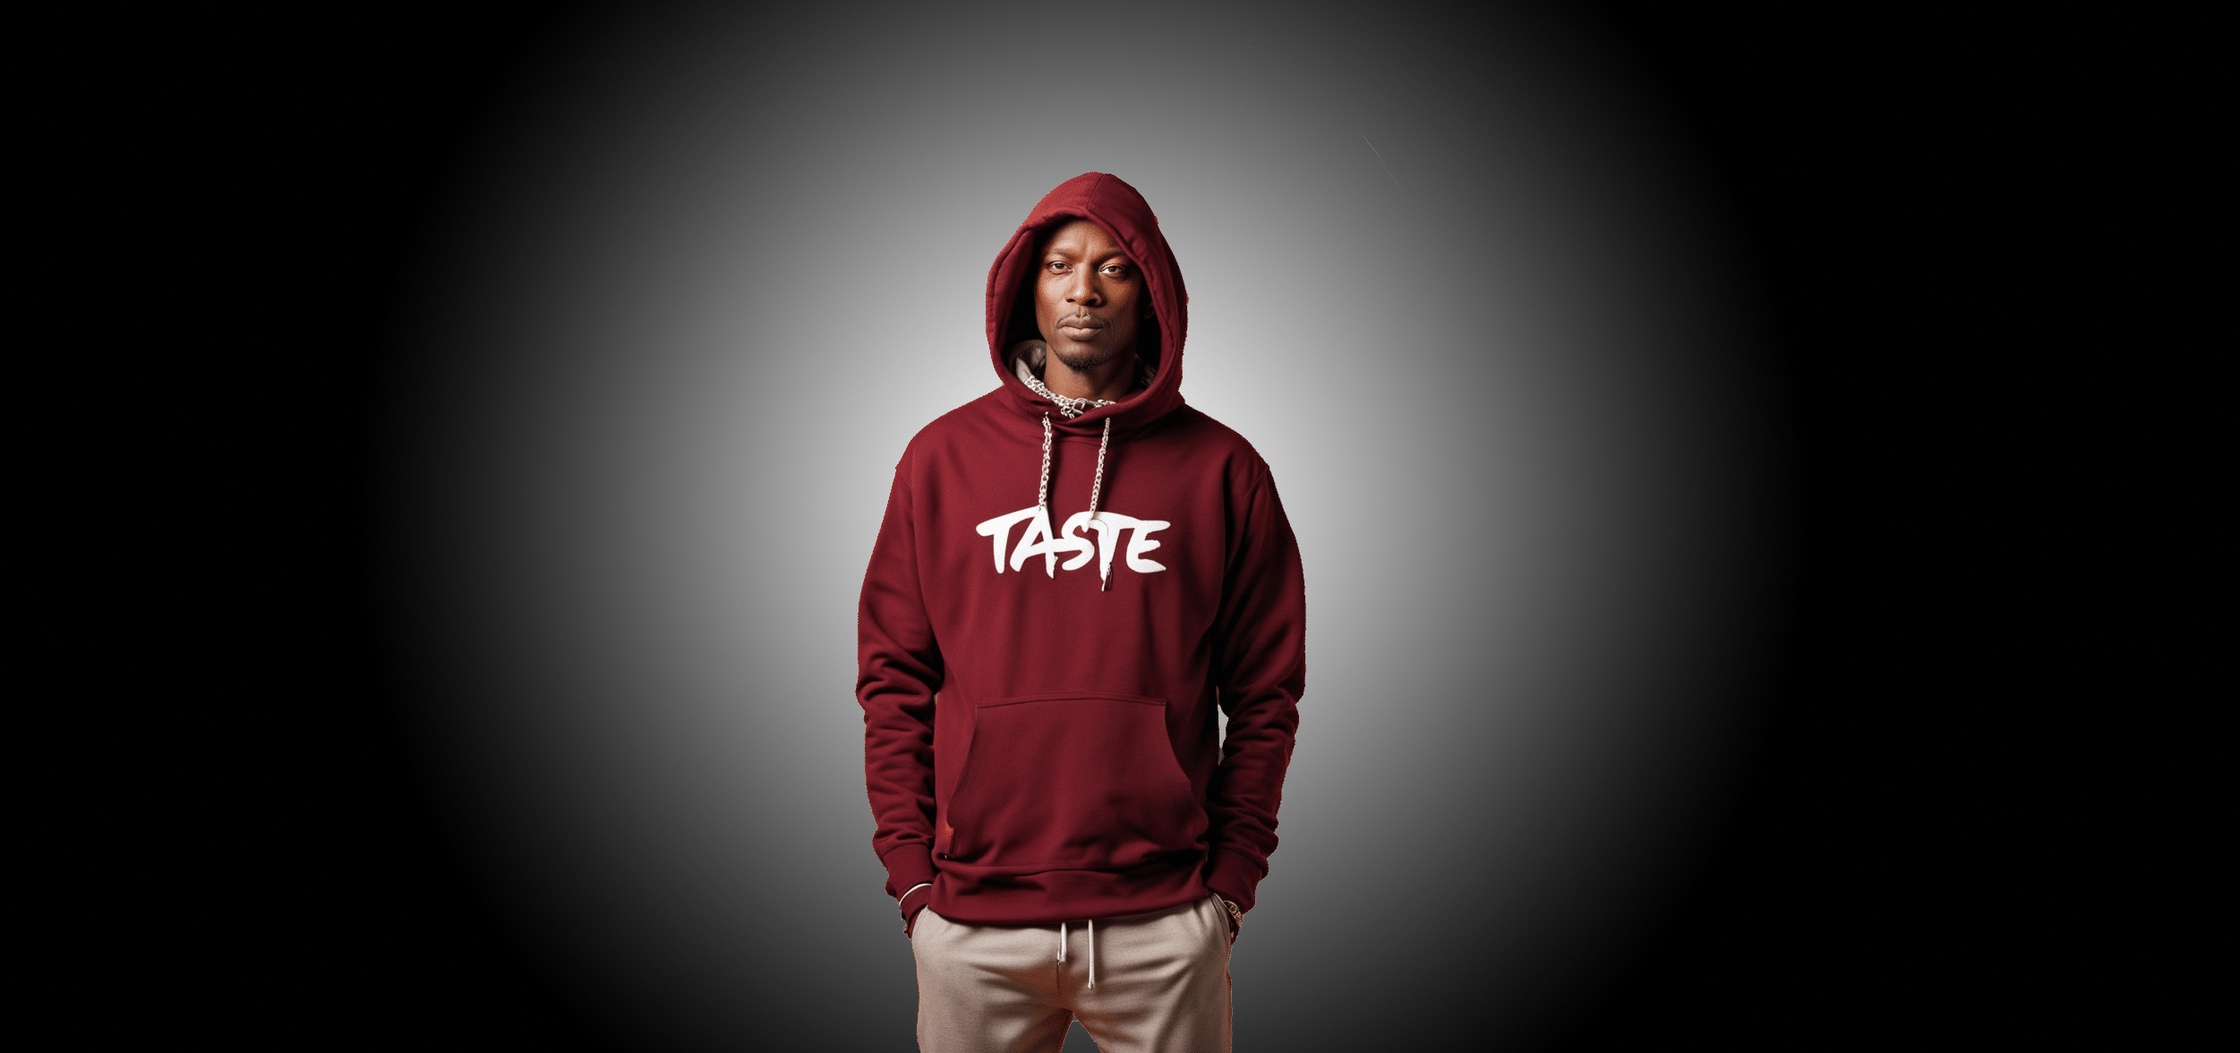
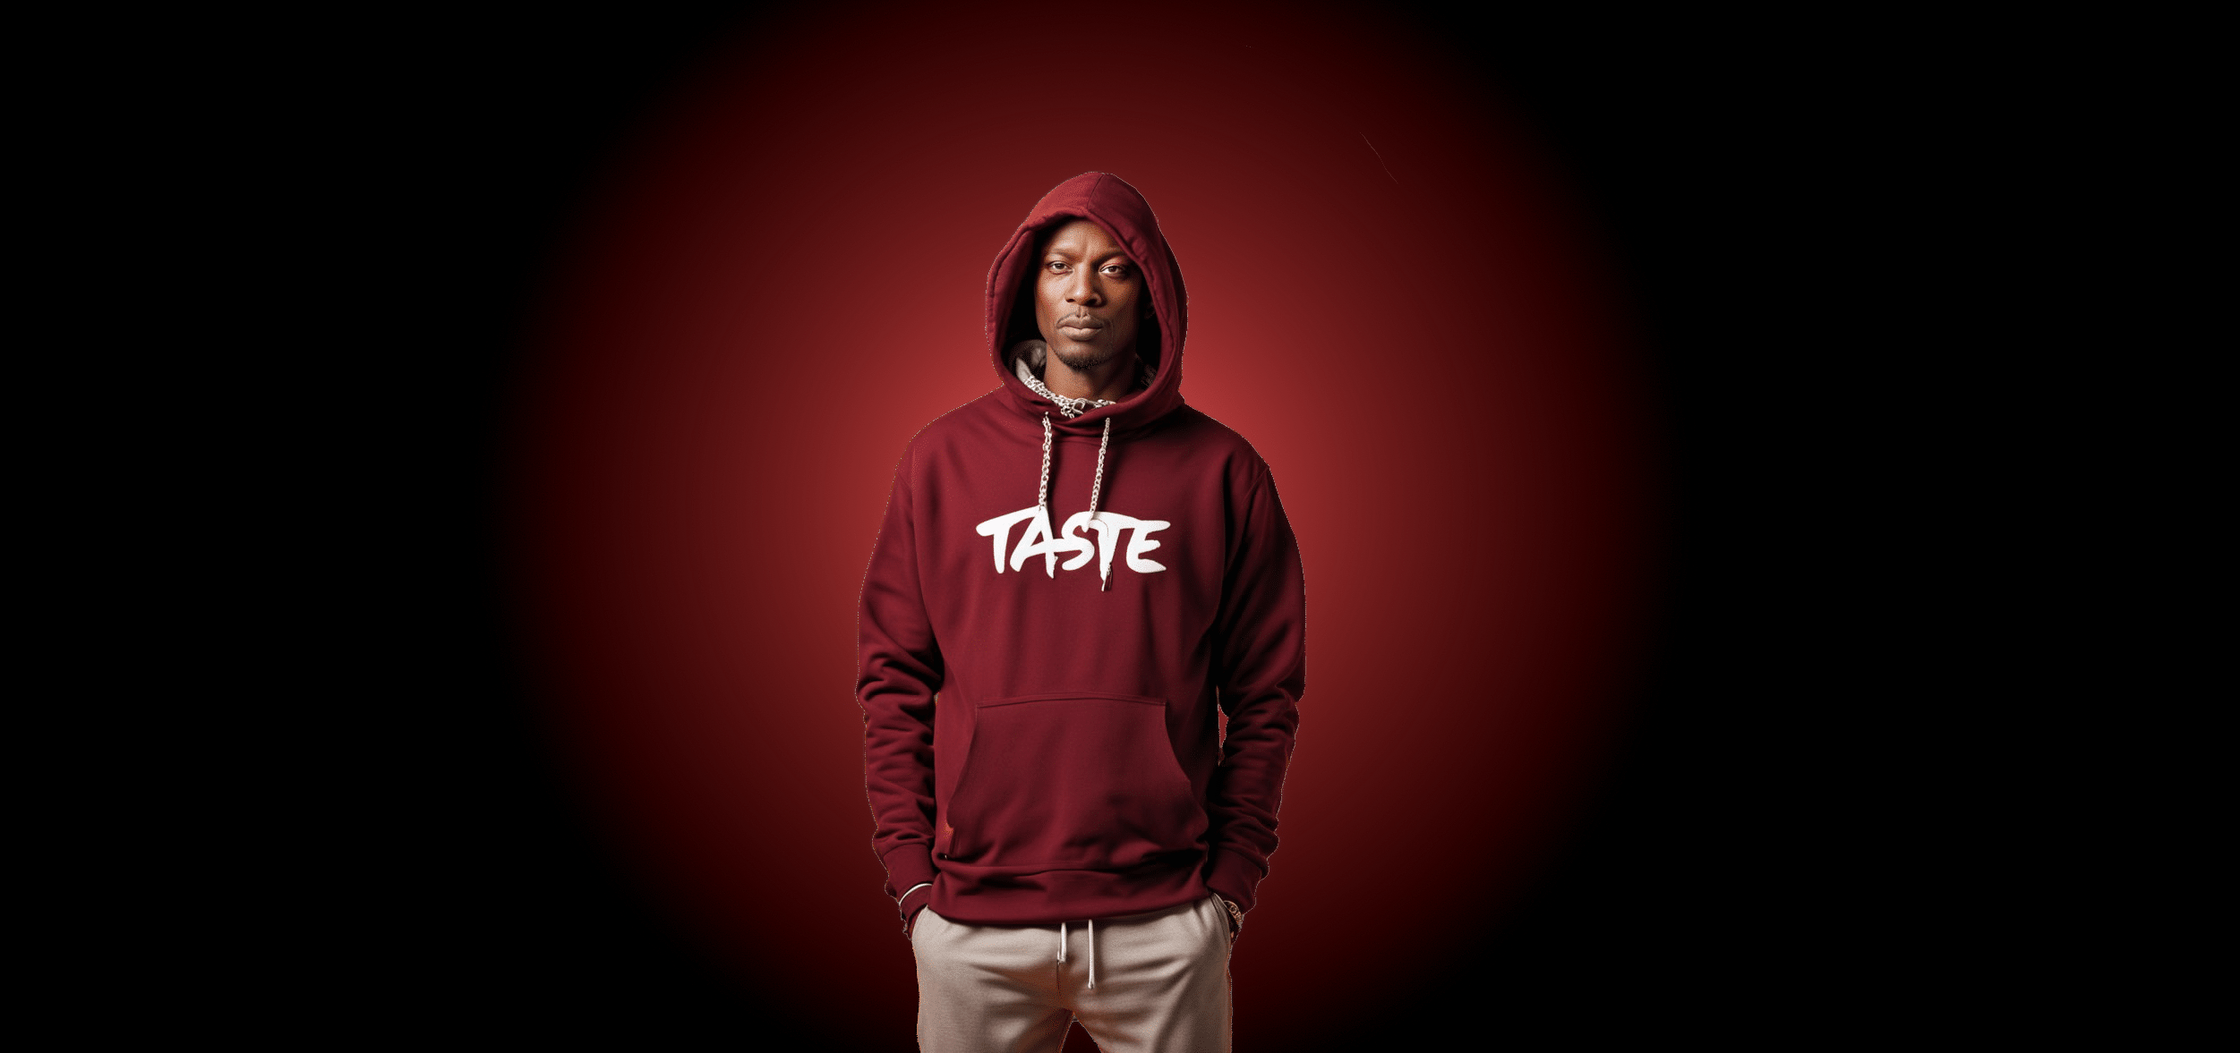
update visual

diff --git a/src/views/HomeView.vue b/src/views/HomeView.vue
@@ -1,8 +1,8 @@
 <template>
   <main>
-    <section class="section_1 mb-[87px]">
-      <div class="flex flex-col gap-[20px] overflow-hidden bg-black pt-[20px]">
-        <div class="flex flex-col md:flex-row justify-between gap-[20px] overflow-hidden">
+    <section class="section_1 pb-[87px] bg-black relative">
+      <div class="flex flex-col gap-[20px] overflow-hidden py-[20px]">
+        <div class="flex flex-col md:flex-row justify-between gap-[20px] overflow-hidden z-10">
           <Collection
             @openForm="openForm(4)"
             :left="true"
@@ -29,14 +29,14 @@
           </div>
         </div>
       </div>
-      <div class="w-screen">
-        <video autoplay loop muted ref="videoRef">
-          <source src="@/images/blackhole.mp4" type="video/mp4" />
-          black hole in spase
-        </video>
-      </div>
+      <video autoplay loop muted ref="videoRef" class="sticky top-[15px] bottom-[15px] -z-0">
+        <source src="@/images/blackhole.mp4" type="video/mp4" />
+        black hole in spase
+      </video>
 
-      <div class="flex flex-col md:flex-row justify-between gap-[20px] bg-black overflow-hidden">
+      <div
+        class="flex flex-col md:flex-row justify-between gap-[20px] overflow-hidden py-[20px] z-10"
+      >
         <Collection
           @openForm="openForm(6)"
           :left="true"
@@ -63,101 +63,105 @@
         </div>
       </div>
     </section>
-    <section
-      class="section_2 mx-auto mb-[150px] flex flex-col-reverse md:flex-row lg:flex-col lg:gap-[120px] xl:max-w-[1196px] justify-center"
-    >
-      <div
-        class="order-2 lg:order-1 flex flex-col md:flex-col-reverse lg:flex-row items-center lg:items-start justify-between"
+
+    <div class="flex justify-center w-full bg-wight relative z-10">
+      <section
+        class="section_2 mb-[150px] flex flex-col-reverse md:flex-row lg:flex-col lg:gap-[120px] xl:max-w-[1196px] justify-center bg-wight"
       >
-        <div class="w-full flex relative items-start md:items-center overflow-hidden">
-          <img
-            class="absolute block md:hidden top-[40%] left-[50%] max-w-[245px]"
-            style="box-shadow: 13px 14px 27px 0px rgba(0, 0, 0, 0.5)"
-            src="@/images/photo_2023-10.jpeg"
-            alt=""
-          />
-          <div class="max-w-[245px] lg:max-w-[312px] xl:max-w-[477px]">
-            <CardInfo :color="'7e5bef'">
+        <div
+          class="order-2 lg:order-1 flex flex-col md:flex-col-reverse lg:flex-row items-center lg:items-start justify-between"
+        >
+          <div class="w-full flex relative items-start md:items-center overflow-hidden">
+            <img
+              class="absolute block md:hidden top-[40%] left-[50%] max-w-[245px]"
+              style="box-shadow: 13px 14px 27px 0px rgba(0, 0, 0, 0.5)"
+              src="@/images/photo_2023-10.jpeg"
+              alt=""
+            />
+            <div class="max-w-[245px] lg:max-w-[312px] xl:max-w-[477px]">
+              <CardInfo :color="'7e5bef'">
+                <div
+                  class="main_text flex flex-col gap-[20px] p-[10px] lg:p-[25px] pt-[23px] lg:pt-[44px]"
+                >
+                  <p
+                    class="md:mb-[50px] lg:mb-[100px] md:text-[24px] lg:text-[32px] xl:text-[40px] font-bold"
+                  >
+                    ABOUT <br />
+                    US
+                  </p>
+                  <p class="text-center md:text-[20px] xl:text-[32px] font-semibold uppercase">
+                    taste&color
+                  </p>
+                  <p class="text-justify md:text-[15px] lg:text-[16px] xl:text-[20px] font-light">
+                    Бренд в котором каждый надет что-то для себя. Это не просто бренд одежды, это
+                    источник вдохновения и возможность выразить свой индивидуальный стиль в самых
+                    лучших аспектах моды и элегантности.
+                  </p>
+                </div>
+              </CardInfo>
+            </div>
+          </div>
+          <div class="md:max-w-[325px] lg:max-w-[414px] xl:max-w-[533px]">
+            <CardInfo :color="'B14F4F'">
               <div
                 class="main_text flex flex-col gap-[20px] p-[10px] lg:p-[25px] pt-[23px] lg:pt-[44px]"
               >
-                <p
-                  class="md:mb-[50px] lg:mb-[100px] md:text-[24px] lg:text-[32px] xl:text-[40px] font-bold"
-                >
-                  ABOUT <br />
-                  US
-                </p>
-                <p class="text-center md:text-[20px] xl:text-[32px] font-semibold uppercase">
-                  taste&color
+                <p class="text-start md:text-[20px] lg:text-[24px] xl:text-[32px] font-semibold">
+                  Требования для покупателей "taste&color":
                 </p>
                 <p class="text-justify md:text-[15px] lg:text-[16px] xl:text-[20px] font-light">
-                  Бренд в котором каждый надет что-то для себя. Это не просто бренд одежды, это
-                  источник вдохновения и возможность выразить свой индивидуальный стиль в самых
-                  лучших аспектах моды и элегантности.
+                  Обязанность №1 - Носить с удовольствием: В противном случае, разве это не
+                  занавеска в гостиной? <br />
+                  Не забыть почувствовать себя королевой/королем: Ведь кто еще, как не ты,
+                  заслуживает этого? <br />
+                  Избегать скучных моментов: Одежда "taste&color" предназначена для того, чтобы
+                  каждый день был мини-модным показом. <br />
+                  Сиять яркими красками даже в серых буднях: Главное - не поглотить офисный
+                  дресс-код своим шикарным стилем. <br />
+                  Превратить обычный день в феерию стиля: Помните, мир - это Ваш подиум, дорогие
+                  покупатели! <br />
+                  Не останавливаться на достигнутом: Ведь у нас каждая новая коллекция - как новая
+                  страница в истории твоего стиля!
                 </p>
               </div>
             </CardInfo>
           </div>
         </div>
-        <div class="md:max-w-[325px] lg:max-w-[414px] xl:max-w-[533px]">
-          <CardInfo :color="'B14F4F'">
-            <div
-              class="main_text flex flex-col gap-[20px] p-[10px] lg:p-[25px] pt-[23px] lg:pt-[44px]"
-            >
-              <p class="text-start md:text-[20px] lg:text-[24px] xl:text-[32px] font-semibold">
-                Требования для покупателей "taste&color":
-              </p>
-              <p class="text-justify md:text-[15px] lg:text-[16px] xl:text-[20px] font-light">
-                Обязанность №1 - Носить с удовольствием: В противном случае, разве это не занавеска
-                в гостиной? <br />
-                Не забыть почувствовать себя королевой/королем: Ведь кто еще, как не ты, заслуживает
-                этого? <br />
-                Избегать скучных моментов: Одежда "taste&color" предназначена для того, чтобы каждый
-                день был мини-модным показом. <br />
-                Сиять яркими красками даже в серых буднях: Главное - не поглотить офисный дресс-код
-                своим шикарным стилем. <br />
-                Превратить обычный день в феерию стиля: Помните, мир - это Ваш подиум, дорогие
-                покупатели! <br />
-                Не останавливаться на достигнутом: Ведь у нас каждая новая коллекция - как новая
-                страница в истории твоего стиля!
-              </p>
-            </div>
-          </CardInfo>
+        <div
+          class="order-1 lg:order-2 relative flex lg:w-full justify-end md:items-end lg:items-start lg:pr-[120px]"
+        >
+          <img
+            class="absolute hidden md:block md:top-0 md:left-0 md:max-w-[333px] lg:left-[5%] lg:-top-[40%] lg:max-w-[425px] xl:-left-[5%] xl:max-w-[609px]"
+            style="box-shadow: 13px 14px 27px 0px rgba(0, 0, 0, 0.5)"
+            src="@/images/photo_2023-10.jpeg"
+            alt=""
+          />
+          <div class="md:max-w-[327px] lg:max-w-[414px] xl:max-w-[545px]">
+            <CardInfo :color="'F3A352'">
+              <div
+                class="main_text flex flex-col gap-[20px] p-[10px] lg:p-[25px] pt-[23px] lg:pt-[44px]"
+              >
+                <p class="text-start md:text-[20px] lg:text-[24px] xl:text-[32px] font-semibold">
+                  Обязанности бренда одежды taste&color перед вами:
+                </p>
+                <p class="text-justify md:text-[15px] lg:text-[16px] xl:text-[20px] font-light">
+                  Поставлять высокое качество: "taste&color" обязан предоставлять потребителям
+                  одежду высочайшего качества, соответствующую премиальным стандартам. <br />
+                  Следить за последними тенденциями: Бренд должен быть в курсе последних модных
+                  течений, чтобы предлагать потребителям современные и стильные коллекции.
+                  <br />
+                  Обеспечивать комфорт: Каждая модель должна обеспечивать комфорт носки, чтобы
+                  потребители чувствовали себя уверенно в любой ситуации. <br />
+                  Поддерживать экологические стандарты: "taste&color" должен быть ответственным
+                  брендом, следящим за воздействием своей деятельности на окружающую среду.
+                </p>
+              </div>
+            </CardInfo>
+          </div>
         </div>
-      </div>
-      <div
-        class="order-1 lg:order-2 relative flex lg:w-full justify-end md:items-end lg:items-start lg:pr-[120px]"
-      >
-        <img
-          class="absolute hidden md:block md:top-0 md:left-0 md:max-w-[333px] lg:left-[5%] lg:-top-[40%] lg:max-w-[425px] xl:-left-[5%] xl:max-w-[609px]"
-          style="box-shadow: 13px 14px 27px 0px rgba(0, 0, 0, 0.5)"
-          src="@/images/photo_2023-10.jpeg"
-          alt=""
-        />
-        <div class="md:max-w-[327px] lg:max-w-[414px] xl:max-w-[545px]">
-          <CardInfo :color="'F3A352'">
-            <div
-              class="main_text flex flex-col gap-[20px] p-[10px] lg:p-[25px] pt-[23px] lg:pt-[44px]"
-            >
-              <p class="text-start md:text-[20px] lg:text-[24px] xl:text-[32px] font-semibold">
-                Обязанности бренда одежды taste&color перед вами:
-              </p>
-              <p class="text-justify md:text-[15px] lg:text-[16px] xl:text-[20px] font-light">
-                Поставлять высокое качество: "taste&color" обязан предоставлять потребителям одежду
-                высочайшего качества, соответствующую премиальным стандартам. <br />
-                Следить за последними тенденциями: Бренд должен быть в курсе последних модных
-                течений, чтобы предлагать потребителям современные и стильные коллекции.
-                <br />
-                Обеспечивать комфорт: Каждая модель должна обеспечивать комфорт носки, чтобы
-                потребители чувствовали себя уверенно в любой ситуации. <br />
-                Поддерживать экологические стандарты: "taste&color" должен быть ответственным
-                брендом, следящим за воздействием своей деятельности на окружающую среду.
-              </p>
-            </div>
-          </CardInfo>
-        </div>
-      </div>
-    </section>
+      </section>
+    </div>
+
     <section
       class="section_3 relative mx-auto lg:max-w-[840px] z-10 sm:px-[5px] md:max-w-[608px] md:px-[20px] xl:max-w-[1236px]"
     >
@@ -316,19 +320,13 @@
                     {{ cros.height }}
                   </p>
                 </div>
-                <div class="flex h-full w-full items-end justify-end">
-                  <p
-                    class="transitionSetting buyNow rounded-[10px] md:rounded-[15px] text-[14px] md:text-[20px] m-[10px] p-[4px] group-hover/cross:bg-black group-hover/cross:text-wight"
-                  >
-                    buy now
-                  </p>
-                </div>
               </div>
             </div>
           </template>
         </div>
       </div>
     </section>
+
     <section class="section_4 xl:pb-[300px]">
       <div
         class="relative"
@@ -890,23 +888,23 @@ export default defineComponent({
 
     hoverRotate(rotate: Boolean) {
       rotate = !rotate
-    },
-
-    video(el: any) {
-      var scrollHeight = Math.max(
-        document.body.scrollHeight,
-        document.documentElement.scrollHeight,
-        document.body.offsetHeight,
-        document.documentElement.offsetHeight,
-        document.body.clientHeight,
-        document.documentElement.clientHeight
-      )
-      let vid: any
-      vid = this.$refs.videoRef
-      let pers = scrollY / (scrollHeight / 1.5 / 100)
-      vid.currentTime = (vid.duration / 100) * pers
-      vid.play()
     }
+
+    // video(el: any) {
+    //   var scrollHeight = Math.max(
+    //     document.body.scrollHeight,
+    //     document.documentElement.scrollHeight,
+    //     document.body.offsetHeight,
+    //     document.documentElement.offsetHeight,
+    //     document.body.clientHeight,
+    //     document.documentElement.clientHeight
+    //   )
+    //   let vid: any
+    //   vid = this.$refs.videoRef
+    //   let pers = scrollY / (scrollHeight / 1.5 / 100)
+    //   vid.currentTime = (vid.duration / 100) * pers
+    //   vid.play()
+    // }
   },
   mounted() {
     this.$nextTick(function () {

diff --git a/src/App.vue b/src/App.vue
@@ -3,7 +3,7 @@ import { RouterLink, RouterView } from 'vue-router'
 </script>
 
 <template>
-  <header class="info_header h-[70vh]">
+  <header class="info_header h-[70vh] z-20 relative">
     <div class="header_wrapper">
       <div
         class="header_lay-link flex items-center justify-between mb-[24px] h-[21px] w-full px-3 bg-[#000]"
@@ -156,11 +156,16 @@ $maxWidth: 1440;
     color: #fff;
     font-family: Montserrat;
 
-    @include adaptiv_font_menu(32, 15);
+    @include adaptiv_font_menu(20, 15);
     font-style: normal;
     font-weight: 700;
     line-height: normal;
     letter-spacing: 3.2px;
+    transition: all 0.2s ease-in-out;
+    padding: 10px 15px;
+  }
+  *:hover {
+    color: rgb(244, 69, 69);
   }
 }
 

diff --git a/src/components/CollectionComponent.vue b/src/components/CollectionComponent.vue
@@ -38,7 +38,7 @@ function onIntersectionObserver([{ isIntersecting }]: any) {
       </div>
     </div>
     <div
-      class="inner_img absolute left-0 top-0 z-0 h-full w-full"
+      class="inner_img absolute left-0 top-0 z-0 h-full w-full rounded-[30px]"
       :style="{ backgroundImage: `url('../src/images/${imgPath}')` }"
     ></div>
   </div>
@@ -59,9 +59,7 @@ export default defineComponent({
     imgPath: String,
     linkPath: String,
     openForm: Number
-  },
-
-  setup() {}
+  }
 })
 </script>
 <style lang="scss">
